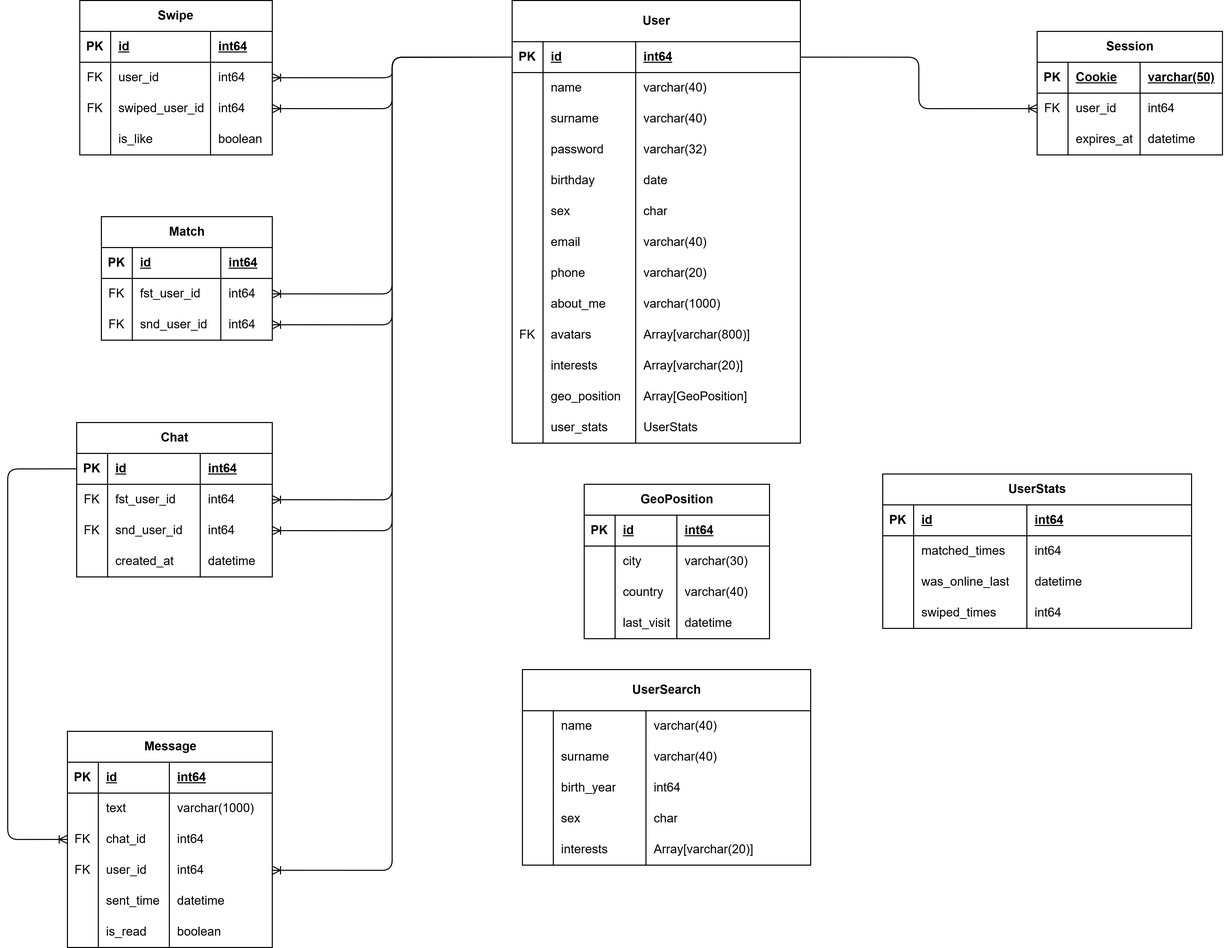
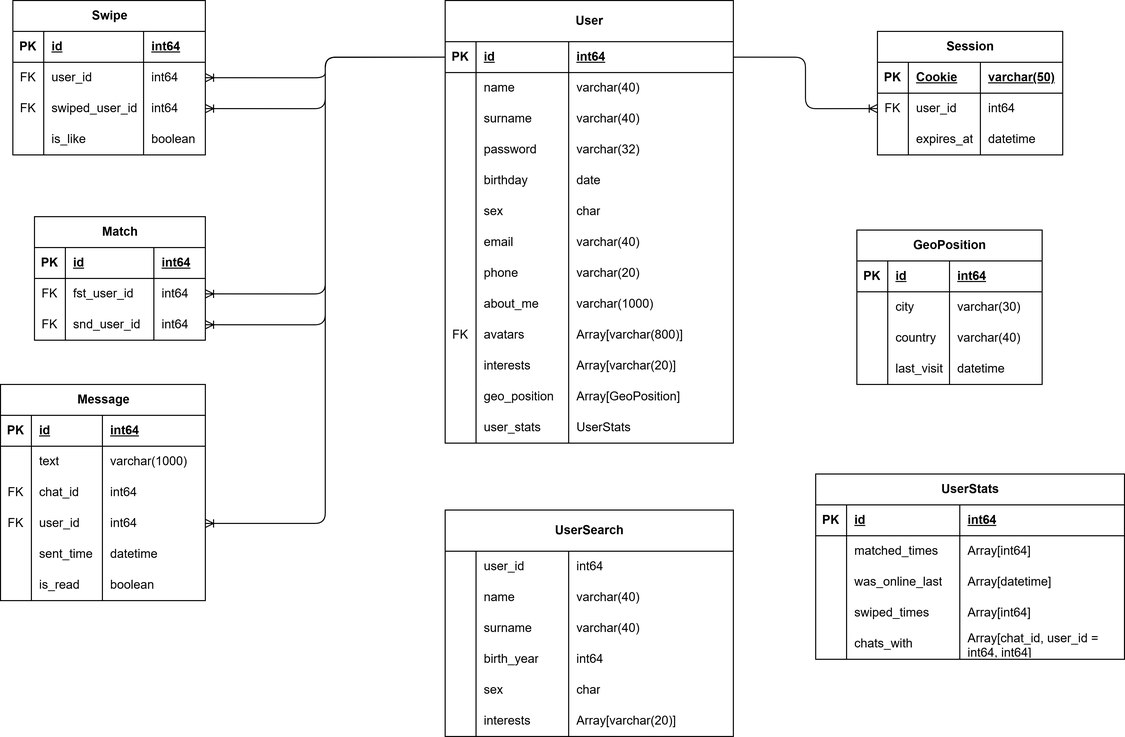
edited

diff --git a/README.md b/README.md
@@ -4,7 +4,7 @@
 Старший преподаватель: Александр Быков
 
 # Tinder 
-## 1. Тема и целевая аудитория
+# 1. Тема и целевая аудитория
 `Tinder` - сервис для онлайн-знакомств и планирования свиданий, имеющий клиенты на Android и IOS, а также веб-клиент. Учитывается геопозиция пользователей, интересы, а также применяется рекомендательная система на основе предыдущих действий пользователя. Главное действие - свайп, т.е. слистывание карточек других пользователей влево или вправо. На основании содержания карточки, в которой на фоне находится фото пользователя, а на переднем плане - информация о нём, такая как возраст, рост, местоположение, интересы, пользователь делает выбор: не понравилось - листает влево, захотелось пообщаться с этим человеком - листает вправо. В случае, если оба пользователя друг для друга выбрали свайп вправо, то у них появляется возможность в приложении пообщаться или найти место, чтобы пообщаться вживую.
 
 ## MVP
@@ -30,7 +30,7 @@
 Британия|5 млн
 Бразилия|7.2 млн
 
-## 2. Расчёт нагрузки
+# 2. Расчёт нагрузки
 
 ### Продуктовые метрики
 Метрика|Значение
@@ -148,7 +148,7 @@ MAU|75 млн
 | Отправка/загрузка медиа     | 41.98                  | 251.88                 | 453384                 |
 | **Сумма**                   | **42.63**              | **255.77**             | **457391.47**          |
 
-## 3. Глобальная балансировка нагрузки
+# 3. Глобальная балансировка нагрузки
 
 ### 3.1 Физическое расположение датацентров
 + Северная Америка - 4 ДЦ 
@@ -178,7 +178,7 @@ MAU|75 млн
 Для определения первоначального региона подключения используется Geo-based DNS. Этот метод оптимален для глобального сервиса, такого как Tinder, так как он автоматически направляет пользователя к кластеру серверов, находящемуся в ближайшем географическом регионе. Это позволяет минимизировать сетевую задержку и предотвратить перегрузку каналов связи, обеспечивая быстрый отклик приложения.
 - Для более точной и отказоустойчивой маршрутизации внутри него применяется протокол BGP Anycast. Так как дата-центры Tinder раскиданы по всему миру, эта технология позволяет нескольким физическим дата-центрам в одном регионе объявлять один и тот же IP-адрес
 
-## 4. Локальная балансировка нагрузки
+# 4. Локальная балансировка нагрузки
 ### Схема балансировки
 1) Выдан IP дата-центра по global-balancing
 2) Трафик приходит на железо, называемое Local Traffic Manager.
@@ -207,7 +207,7 @@ Kubernetes, разработаннытй Google, - открытый контей
 - следует выделить железо, способное выдержать б*о*льшую часть пикового трафика
 - Проводить e2e health check-и каждые 30 секунд + availability check-и каждую минуту + проверки базы данных и кеша каждые 5 минут
 
-## 5. Логическая модель БД
+# 5. Логическая модель БД
 ![alt text](tinder_db.png)
 
 ### Размер таблиц
@@ -399,6 +399,7 @@ Kubernetes, разработаннытй Google, - открытый контей
 1) Добавим в User массив GeoPosition
 1) Добавим в User UserStats
 1) Добавим в User напрямую урл до аватара (то есть Avatar)
+1) Добавим в UserStats информацию о чатах (у кого с кем)
 
 ![alt text](tinder_db-2.png)
 
@@ -558,6 +559,10 @@ Cистема комбинирует:
 - Корректировка по активности: система учитывает количество взаимодействий пользователя
 - Корректировка $K$ и $R$ происходит раз в день
 
+Этап 5. Выбор пользователей, подходящих по расстоянию.
+--
+Первые 4 этапа отобрали людей без особых знаний о том, что интересно конкретно данному пользователю. На данном этапе будем учитывать факторы, которые ближе к пользователю: будем сортировать по близости к пользователю, затем по совпадению интересов (по проценту совпадений данных массива интересов пользователя А и пользователя В). Затем сделаем ещё чётче: будем стараться продвигать тех пользователей из предлагаемых, которые через одного человека (какого-то друга/подруги) знакомы с пользователем. 
+
 ### Алгоритм антиспама и детекции фейк-аккаунтов для Tinder
 
 Этап 1. Предварительная верификация
@@ -612,55 +617,30 @@ TrustScore = 0.4 * BehaviorScore +
 - Учет новых данных и изменений в поведении
 - Корректировка весов на основе эффективности детекции
 
-## 8. Технологии
-
-| Технология    | Область применения                              | Мотивационная часть                              |
-| --------------| ------------------------------------------------| ------------------------------------------------ |
-| Go            | ЯП Backend'а                                    | Надёжность, скорость, простая асинхронная модель |
+# 8. Технологии
+Технология	|Область применения|	Обоснование
+---|---|---
+Go (Golang)	|Основной язык для всех backend-микросервисов (пользователи, свайпы, чаты, рекомендации).	|Высокая производительность, похож на Си, эффективная конкурентность (горутины и каналы), низкое потребление памяти, быстрое время запуска, богатая стандартная библиотека.
 | React, Vue.js | Frontend                                        | Гибкость, высокая скорость разработки            |
-| nginx         | Reverse proxy, балансировщик                    | Скорость, гибкость, конфигурируемость            |
-| DynamoDB       | БД для данных пользователей                     | Масштабируемость, высокая скорость, гибкость     | 
-| Redis         | БД для временного хранения сообщений и сессий            | Масштабируемость, высокая скорость               |
-| Prometheus    | Протокол для работы с метриками                        | Стандарт индустрии                               |
-| TSDB    | Сбор метрик, их хранение                        | Специализированная база данных временных рядов                               |
-| Grafana       | Визуализация собранных метрик                   | Лидер индустрии                                  |
-| Amazon S3            | Хранилище пользовательских файлов               | Уменьшение задержки и исходящего трафика         |
-| Kafka         | Брокер сообщений                                | Скорость, масштабируемость                       |
-
-### ЯП Backend'а
-
-Go vs Python  
-
-Go быстрее и эффективнее Python, особенно для задач, связанных с CPU. Go предоставляет легковесные горутины и каналы, что облегчает параллельную обработку задач и асинхронную программирование без особой сложности. Также Python однопоточный в целом, это сильно ограничивает скорость.
-
-### Frontend
-
-React vs Angular  
-
-React более легкий и гибкий, чем Angular, с меньшими затратами на обучение (а значит более высокой скоростью разработки) и более обширной экосистемой.
-
-Vue.js - Комплексный фреймворк, прост в изучении 
-
-### Балансировщик
-
-nginx vs Apache  
-
-nginx быстрее и легче Apache, занимает меньше места и обеспечивает лучшую производительность при высоких нагрузках.
-
-### БД для данных пользователей
-
-Amazon DynamoDB идеально подходит для хранения данных, которые имеют переменную структуру включающих в себя ассоциативные массивы, что характерно для профиля пользователя (согласно [источнику](https://eathealthy365.com/tinder-s-database-model-explained-from-nosql-to-scale/))
-
-### БД для хранения свайпов, совпадений и чатов
-
-DynamoBD в связке с Redis подходят для кеширования сообщений, "горячих" пользователей и свайпов. Для аналитики и поиска подойдет Elasticsearch. 
-
-### БД для временного хранения сообщений и сессий
-
-Redis подходит для данных, к которым требуется высокая скорость доступа. Также если Redis упадет, то потерянные данные будут не критичными и для их восстановления пользователям достаточно опять авторизоваться и зайти в чаты.
+gRPC	| Внутренняя коммуникация между микросервисами.	| Высокая производительность (бинарный протокол поверх HTTP/2), строгие контракты через Protocol Buffers (protobuf), поддержка потоковой передачи данных (полезно для чатов, уведомлений), автоматическая генерация кода.
+REST/GraphQL API	| Внешнее API для мобильных и веб-клиентов. |	REST это стандарт, простота понимания и использования, в то время как GraphQL позволяет клиенту запрашивать только нужные данные, уменьшая размер ответа и количество запросов (например, получить профиль и список чатов за один запрос).
+Kubernetes	| Оркестрация контейнеров, развертывание, масштабирование и управление жизненным циклом микросервисов.	| Автоматическое масштабирование, перезапуск упавших подов, управление конфигурациями и секретами, эффективное использование ресурсов. 
+Amazon DynamoDB	|Основное хранилище для сущностей: User, Swipe, Match, Chat, Message.|	Полностью управляемая NoSQL БД, что избавляет от операционных затрат на администрирование. Горизонтальное масштабирование "из коробки", предсказуемая производительность при любых нагрузках, надежность и отказоустойчивость. Модель данных (документы) хорошо ложится на профили пользователей.
+Redis	|Кеширование, сессии, временные данные, Pub/Sub.|	Кеш горячих данных: профили часто просматриваемых пользователей, предварительно сгенерированные ленты рекомендаций. Хранилище сессий: низкая задержка доступа, идеально для данных, которые могут быть потеряны без критических последствий. Pub/Sub для реального времени: доставка уведомлений о новых сообщениях и совпадениях.
+Elasticsearch	|Поиск и фильтрация пользователей (UserSearch), полнотекстовый поиск по сообщениям	|Мощный движок для сложных поисковых запросов, фильтрации по множеству атрибутов Очень высокая скорость выполнения сложных запросов.
+Amazon S3	|Хранилище для медиафайлов: фотографии пользователей, аватары.|	Высокая надежность, долговременное хранение, **но высокая** стоимость. Интеграция с CDN для быстрой доставки контента пользователям по всему миру.
+Apache Kafka	| Брокер сообщений, событийная шина.	|Асинхронная обработка: прием высокочастотных событий (свайпы, сообщения) с последующей их обработкой различными потребителями (обновление рейтинга Эло, антиспам, аналитика). Буферизация нагрузки: защищает основные сервисы от пиков. 
+Envoy	|Входной шлюз (API Gateway), терминация SSL/TLS, маршрутизация, rate limiting.	| Современный вариант, идеально интегрируется с сервисной сетью (Service Mesh).
+Service Mesh  Istio	| Управление трафиком между микросервисами, безопасность (mTLS), observability.	| Предоставляет мощные возможности для развертывания (canary-релизы, A/B-тестирование), отказоустойчивости (circuit breakers, retries), и детального наблюдения за сетевым трафиком. Критически важен в микросервисной архитектуре с сотнями сервисов.
+CDN - Cloudflare	|Доставка статического и медиаконтента (фотографии из S3).	|Значительное снижение задержки для конечных пользователей за счет кеширования контента на граничных серверах по всему миру. Снижает нагрузку на бэкенд и исходное хранилище S3.
+Prometheus	|Сбор и хранение метрик.|	Стандарт для мониторинга. Собирает метрики со всех компонентов: приложений (RPS, latency, error rate), системные (CPU, memory), middleware (БД, кеши).
+VictoriaMetrics |	Масштабируемое долгосрочное хранилище для метрик Prometheus. |	Prometheus сам по себе не масштабируется горизонтально и не предназначен для долгосрочного хранения. VictoriaMetrics решает проблему, обеспечивая высокую доступность, долговременное хранение и глобальный доступ к метрикам.
+Grafana	|Визуализация метрик и дашборды.|	Лидер рынка. Позволяет создавать информативные дашборды для отслеживания состояния сервиса в реальном времени, анализа трендов и оперативного реагирования на инциденты. Интегрируется с Prometheus и другими источниками данных.
+Loki	|Сбор, индексация и поиск логов.	|Архитектура, похожая на Prometheus, но для логов. Легковесный, эффективно индексирует только метаданные, а сами логи хранятся в дешевом объектном хранилище (S3). Интегрируется с Grafana, что позволяет коррелировать метрики и логи в одном интерфейсе.
+GitLab CI	|Непрерывная интеграция и доставка (CI/CD).|	Автоматизация процессов: запуск тестов, проверка кода, развертывание в staging и production среды. Обеспечивает скорость и надежность поставки изменений.
 
 
-## Список использованных источников
+# Список использованных источников
 1) https://affmaven.com/ru/tinder-statistics/
 2) https://datingzest.com/tinder-statistics/
 3) https://www.businessofapps.com/data/tinder-statistics/
